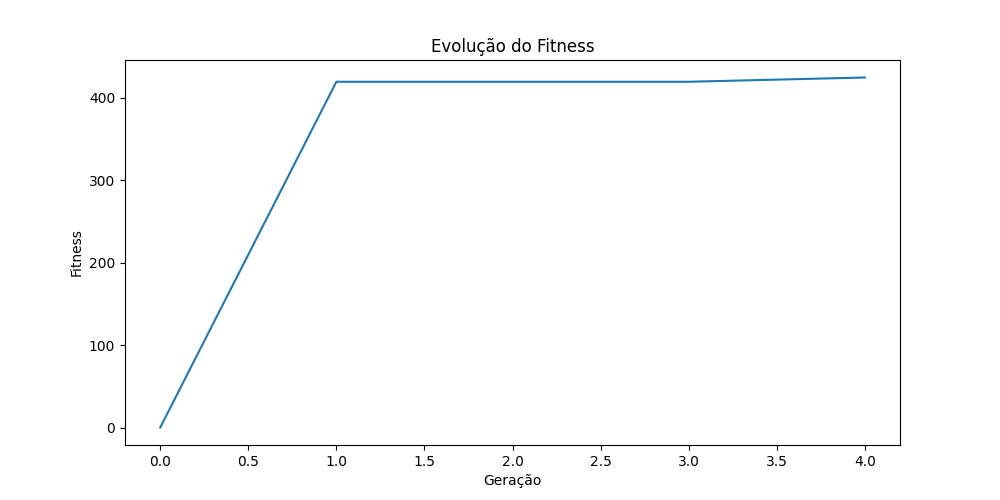
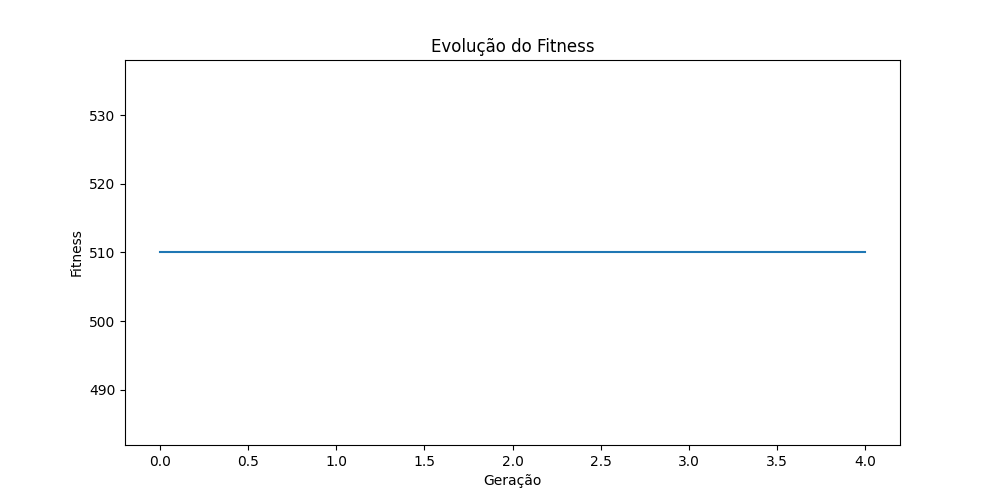
alteracoes com melhor robo ate o momento

diff --git a/robo_exercicio.py b/robo_exercicio.py
@@ -534,18 +534,19 @@ class Simulador:
 # Deve modificar os parâmetros e a lógica para melhorar o desempenho.
 # =====================================================================
 
+
 class IndividuoPG:
-    def __init__(self, profundidade=4):
+    def __init__(self, profundidade=5):
         self.profundidade = profundidade
-        self.arvore_aceleracao = self.criar_arvore(self.profundidade)
-        self.arvore_rotacao = self.criar_arvore(self.profundidade)
+        self.arvore_aceleracao = self.criar_arvore(profundidade)
+        self.arvore_rotacao = self.criar_arvore(profundidade)
         self.fitness = 0
 
     def criar_arvore(self, profundidade):
         if profundidade == 0:
             return self.criar_folha()
 
-        operador = random.choice(['+', '-', '*', '/', 'max', 'min', 'abs', 'if'])
+        operador = random.choice(['+', '-', '*', '/', 'max', 'min', 'abs'])
         if operador in ['+', '-', '*', '/', 'max', 'min']:
             return {
                 'tipo': 'operador',
@@ -560,18 +561,15 @@ class IndividuoPG:
                 'esquerda': self.criar_arvore(profundidade - 1),
                 'direita': None
             }
-        elif operador == 'if':
-            return {
-                'tipo': 'operador',
-                'operador': 'if',
-                'condicao': self.criar_arvore(profundidade - 1),
-                'verdadeiro': self.criar_arvore(profundidade - 1),
-                'falso': self.criar_arvore(profundidade - 1)
-            }
 
     def criar_folha(self):
-        terminal = random.choice(['constante', 'dist_recurso', 'dist_obstaculo', 'dist_meta',
-                                  'angulo_recurso', 'angulo_meta', 'energia', 'velocidade', 'meta_atingida'])
+        terminal = random.choices(
+            ['dist_recurso', 'angulo_recurso', 'dist_meta', 'angulo_meta',
+             'dist_obstaculo', 'energia', 'velocidade', 'meta_atingida', 'constante'],
+            weights=[10, 8, 6, 6, 12, 5, 5, 2, 3],
+            k=1
+        )[0]
+
         if terminal == 'constante':
             return {'tipo': 'folha', 'valor': random.uniform(-5, 5)}
         else:
@@ -582,57 +580,60 @@ class IndividuoPG:
         return self.avaliar_no(arvore, sensores)
 
     def avaliar_no(self, no, sensores):
+        if no is None:
+            return 0
+
         if no['tipo'] == 'folha':
             if 'valor' in no:
                 return no['valor']
-            elif 'variavel' in no:
+            if 'variavel' in no:
                 return sensores[no['variavel']]
 
         op = no['operador']
         if op == 'abs':
-            return abs(self.avaliar_no(no['esquerda'], sensores))
-        if op == 'if':
-            cond = self.avaliar_no(no['condicao'], sensores)
-            if cond > 0:
-                return self.avaliar_no(no['verdadeiro'], sensores)
-            else:
-                return self.avaliar_no(no['falso'], sensores)
+            resultado = abs(self.avaliar_no(no['esquerda'], sensores))
+        else:
+            esquerda = self.avaliar_no(no.get('esquerda'), sensores)
+            direita = self.avaliar_no(no.get('direita'), sensores) if no.get('direita') else 0
 
-        esquerda = self.avaliar_no(no['esquerda'], sensores)
-        direita = self.avaliar_no(no['direita'], sensores) if no.get('direita') else 0
+            try:
+                if op == '+':
+                    resultado = esquerda + direita
+                elif op == '-':
+                    resultado = esquerda - direita
+                elif op == '*':
+                    resultado = esquerda * direita
+                elif op == '/':
+                    resultado = esquerda / direita if direita != 0 else 0
+                elif op == 'max':
+                    resultado = max(esquerda, direita)
+                elif op == 'min':
+                    resultado = min(esquerda, direita)
+                else:
+                    resultado = 0
+            except:
+                resultado = 0
 
-        try:
-            if op == '+':
-                return esquerda + direita
-            if op == '-':
-                return esquerda - direita
-            if op == '*':
-                return esquerda * direita
-            if op == '/':
-                return esquerda / direita if direita != 0 else 0
-            if op == 'max':
-                return max(esquerda, direita)
-            if op == 'min':
-                return min(esquerda, direita)
-        except:
+        if resultado != resultado or resultado == float('inf') or resultado == float('-inf'):
             return 0
 
-    def mutacao(self, probabilidade=0.1):
+        return resultado
+
+    def mutacao(self, probabilidade=0.2):
         self.arvore_aceleracao = self._mutacao_no(self.arvore_aceleracao, probabilidade)
         self.arvore_rotacao = self._mutacao_no(self.arvore_rotacao, probabilidade)
 
     def _mutacao_no(self, no, probabilidade):
+        if no is None:
+            return self.criar_arvore(2)
+
         if random.random() < probabilidade:
-            return self.criar_arvore(profundidade=2)
+            return self.criar_arvore(2)
+
         if no['tipo'] == 'operador':
-            if no['operador'] == 'if':
-                no['condicao'] = self._mutacao_no(no['condicao'], probabilidade)
-                no['verdadeiro'] = self._mutacao_no(no['verdadeiro'], probabilidade)
-                no['falso'] = self._mutacao_no(no['falso'], probabilidade)
-            else:
-                no['esquerda'] = self._mutacao_no(no['esquerda'], probabilidade)
-                if no.get('direita'):
-                    no['direita'] = self._mutacao_no(no['direita'], probabilidade)
+            no['esquerda'] = self._mutacao_no(no.get('esquerda'), probabilidade)
+            if no.get('direita') is not None:
+                no['direita'] = self._mutacao_no(no.get('direita'), probabilidade)
         return no
 
     def crossover(self, outro):
@@ -642,32 +643,20 @@ class IndividuoPG:
         return filho
 
     def _crossover_no(self, no1, no2):
+        if no1 is None:
+            return json.loads(json.dumps(no2))
+        if no2 is None:
+            return json.loads(json.dumps(no1))
+
         if no1['tipo'] == 'folha' or no2['tipo'] == 'folha':
             return json.loads(json.dumps(random.choice([no1, no2])))
 
-        if no1['operador'] == 'if' and no2['operador'] == 'if':
+        if no1['operador'] == no2['operador']:
             return {
                 'tipo': 'operador',
-                'operador': 'if',
-                'condicao': self._crossover_no(no1['condicao'], no2['condicao']),
-                'verdadeiro': self._crossover_no(no1['verdadeiro'], no2['verdadeiro']),
-                'falso': self._crossover_no(no1['falso'], no2['falso'])
-            }
-
-        if no1['operador'] == 'abs' and no2['operador'] == 'abs':
-            return {
-                'tipo': 'operador',
-                'operador': 'abs',
-                'esquerda': self._crossover_no(no1['esquerda'], no2['esquerda']),
-                'direita': None
-            }
-
-        if no1['operador'] in ['+', '-', '*', '/', 'max', 'min'] and no2['operador'] in ['+', '-', '*', '/', 'max', 'min']:
-            return {
-                'tipo': 'operador',
-                'operador': random.choice([no1['operador'], no2['operador']]),
-                'esquerda': self._crossover_no(no1['esquerda'], no2['esquerda']),
-                'direita': self._crossover_no(no1['direita'], no2['direita'])
+                'operador': no1['operador'],
+                'esquerda': self._crossover_no(no1.get('esquerda'), no2.get('esquerda')),
+                'direita': self._crossover_no(no1.get('direita'), no2.get('direita'))
             }
 
         return json.loads(json.dumps(random.choice([no1, no2])))
@@ -687,11 +676,9 @@ class IndividuoPG:
         individuo.arvore_aceleracao = dados['arvore_aceleracao']
         individuo.arvore_rotacao = dados['arvore_rotacao']
         return individuo
-
-
-
+    
 class ProgramacaoGenetica:
-    def __init__(self, tamanho_populacao=30, profundidade=4):
+    def __init__(self, tamanho_populacao=40, profundidade=5):
         self.tamanho_populacao = tamanho_populacao
         self.profundidade = profundidade
         self.populacao = [IndividuoPG(profundidade) for _ in range(tamanho_populacao)]
@@ -706,7 +693,7 @@ class ProgramacaoGenetica:
         for individuo in self.populacao:
             fitness = 0
 
-            for _ in range(3):  # Quantidade de simulações por indivíduo (ajustável)
+            for _ in range(3):
                 ambiente.reset()
                 robo.reset(ambiente.largura // 2, ambiente.altura // 2)
 
@@ -723,17 +710,24 @@ class ProgramacaoGenetica:
                     if sem_energia or ambiente.passo():
                         break
 
+                estado = ambiente.get_estado()
+                recursos_nao_coletados = estado['recursos_restantes']
+
                 fitness_tentativa = (
-                    robo.recursos_coletados * 150 +      # Pontuação por recurso (aumentado)
-                    (500 if robo.meta_atingida else 0) + # Bônus por atingir a meta
-                    robo.energia * 2 -                   # Energia restante influencia
-                    robo.colisoes * 50 -                 # Penalização por colisões
-                    robo.distancia_percorrida * 0.05     # Penalização leve por distância
+                    robo.recursos_coletados * 800 +
+                    (1000 if robo.meta_atingida else 0) +
+                    robo.energia * 2 +
+                    robo.distancia_percorrida * 1.2 -
+                    robo.colisoes * 150 -
+                    recursos_nao_coletados * 500
                 )
 
-                fitness += max(0, fitness_tentativa)
+                if recursos_nao_coletados > 0 and robo.meta_atingida:
+                    fitness_tentativa -= 700
 
-            individuo.fitness = fitness / 3  # Média das tentativas
+                fitness += max(1, fitness_tentativa)
+
+            individuo.fitness = fitness / 3
 
             if individuo.fitness > self.melhor_fitness:
                 self.melhor_fitness = individuo.fitness
@@ -750,10 +744,9 @@ class ProgramacaoGenetica:
 
         return selecionados
 
-    def evoluir(self, n_geracoes=20):
+    def evoluir(self, n_geracoes=10):
         for geracao in range(n_geracoes):
             print(f"\n🧬 Geração {geracao + 1}/{n_geracoes}")
-
             self.avaliar_populacao()
             print(f"✨ Melhor fitness da geração: {self.melhor_fitness:.2f}")
 
@@ -761,12 +754,12 @@ class ProgramacaoGenetica:
 
             selecionados = self.selecionar()
 
-            nova_populacao = [self.melhor_individuo]  # Aplicando elitismo (mantém o melhor)
+            nova_populacao = [self.melhor_individuo]
 
             while len(nova_populacao) < self.tamanho_populacao:
                 pai1, pai2 = random.sample(selecionados, 2)
                 filho = pai1.crossover(pai2)
-                filho.mutacao(probabilidade=0.15)  # Taxa de mutação levemente aumentada
+                filho.mutacao(probabilidade=0.2)
                 nova_populacao.append(filho)
 
             self.populacao = nova_populacao
